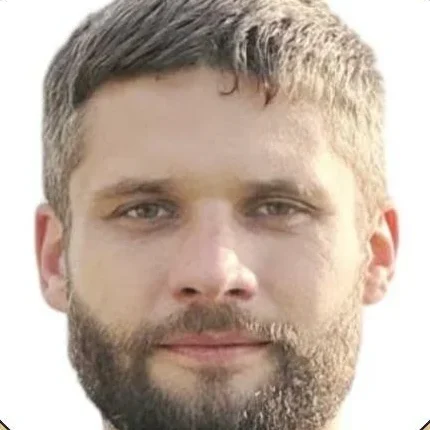
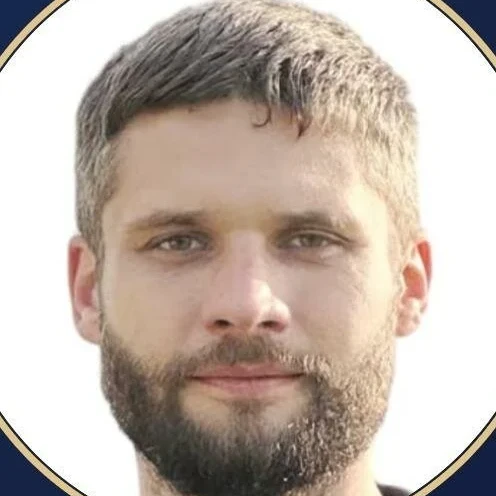
Landing: larger portrait, single Onest family, remove repeated facts and duplicate blocks, compact steps on mobile
Claude-Session: https://claude.ai/code/session_017KJ3HS6DxycsqL4sScxPHw

diff --git a/index.html b/index.html
@@ -9,7 +9,7 @@
 <meta name="theme-color" content="#0d3534">
 <link rel="preload" as="image" href="v2/img/hero.webp">
 <link rel="preconnect" href="https://fonts.googleapis.com">
-<link rel="stylesheet" href="https://fonts.googleapis.com/css2?family=Unbounded:wght@400;500;600&family=Onest:wght@400;500;600;700&display=swap">
+<link rel="stylesheet" href="https://fonts.googleapis.com/css2?family=Onest:wght@400;500;600;700&display=swap">
 <style>
 /* Layout: широкое фото-открытие, дальше — один столбец «разговора» с покупателем, цены — таблица линий от воды к степи */
 :root{
@@ -22,7 +22,7 @@
   --line:#dcd9cf;
   --card:#ffffff;
   --todo:#b4541f;
-  --display:"Unbounded","Arial Black",system-ui,sans-serif;
+  --display:"Onest",system-ui,-apple-system,"Segoe UI",sans-serif;
   --body:"Onest",system-ui,-apple-system,"Segoe UI",sans-serif;
   --gut-l:max(16px, env(safe-area-inset-left,0px));
   --gut-r:max(16px, env(safe-area-inset-right,0px));
@@ -34,9 +34,9 @@
 *{box-sizing:border-box}
 body{background:var(--chalk);color:var(--ink);font:400 17px/1.6 var(--body);-webkit-font-smoothing:antialiased}
 .wrap{max-width:1120px;margin:0 auto;padding-left:var(--gut-l);padding-right:var(--gut-r)}
-h1,h2,h3{font-family:var(--display);font-weight:500;letter-spacing:-.01em;line-height:1.15;text-wrap:balance;margin:0}
+h1,h2,h3{font-family:var(--display);font-weight:700;letter-spacing:-.02em;line-height:1.15;text-wrap:balance;margin:0}
 h2{font-size:clamp(26px,4vw,40px)}
-h3{font-size:19px;font-weight:500}
+h3{font-size:19px;font-weight:600;letter-spacing:-.01em}
 p{margin:0}
 a{color:inherit}
 .label{font:600 12px/1.2 var(--body);letter-spacing:.14em;text-transform:uppercase;color:var(--straw)}
@@ -58,7 +58,7 @@ section{padding-block:clamp(56px,9vw,104px)}
 .top{position:sticky;top:env(safe-area-inset-top,0px);z-index:20;background:color-mix(in srgb,var(--chalk) 92%,transparent);backdrop-filter:blur(10px);border-bottom:1px solid var(--line)}
 body::before{content:"";position:fixed;inset:0 0 auto;height:env(safe-area-inset-top,0px);z-index:30;background:var(--chalk)}
 .top .wrap{display:flex;align-items:center;justify-content:space-between;gap:16px;min-height:62px}
-.brand{font:500 15px var(--display);text-decoration:none}
+.brand{font:700 16px var(--display);text-decoration:none}
 .brand small{display:block;font:500 11px var(--body);letter-spacing:.12em;text-transform:uppercase;color:var(--muted)}
 .top-phone{font-weight:600;text-decoration:none;white-space:nowrap}
 
@@ -68,14 +68,14 @@ body::before{content:"";position:fixed;inset:0 0 auto;height:env(safe-area-inset
 .hero::after{content:"";position:absolute;inset:0;background:linear-gradient(180deg,rgba(8,30,29,0) 0%,rgba(8,30,29,.25) 40%,rgba(8,30,29,.88) 100%)}
 .hero .wrap{position:relative;z-index:1;padding-block:clamp(120px,22vw,220px) clamp(36px,6vw,64px);display:grid;gap:22px}
 .hero h1,.hero .lead{text-shadow:0 1px 18px rgba(0,0,0,.35)}
-.hero h1{font-size:clamp(32px,6.2vw,68px);max-width:15ch}
+.hero h1{font-size:clamp(36px,6.4vw,72px);max-width:14ch;line-height:1.05}
 .hero .lead{color:#e3e6df;max-width:52ch}
 .hero .label{color:#e7c873}
 .hero-price{display:flex;flex-wrap:wrap;gap:8px 28px;font-size:15px;color:#d8ddd6;border-top:1px solid rgba(255,255,255,.22);padding-top:18px;margin-top:6px}
-.hero-price b{font:500 22px var(--display);color:#fff;display:block}
+.hero-price b{font:700 24px var(--display);color:#fff;display:block}
 
 /* почему восток */
-.why-grid{display:grid;grid-template-columns:repeat(4,minmax(0,1fr));gap:28px;margin-top:40px}
+.why-grid{display:grid;grid-template-columns:repeat(3,minmax(0,1fr));gap:28px;margin-top:40px}
 .why-grid div{display:grid;gap:8px;align-content:start;border-top:2px solid var(--sea);padding-top:16px}
 .why-grid p{color:var(--muted);font-size:15.5px}
 
@@ -83,18 +83,18 @@ body::before{content:"";position:fixed;inset:0 0 auto;height:env(safe-area-inset
 .prices{background:var(--card)}
 .lines{margin-top:36px;border-top:1px solid var(--line)}
 .line{display:grid;grid-template-columns:110px minmax(0,1fr) auto;gap:20px 28px;align-items:center;padding-block:26px;border-bottom:1px solid var(--line)}
-.line-no{font:500 44px/1 var(--display);color:var(--sea)}
+.line-no{font:700 48px/1 var(--display);color:var(--sea)}
 .line-no small{display:block;font:600 11px var(--body);letter-spacing:.12em;text-transform:uppercase;color:var(--muted);margin-top:8px}
 .facts{display:flex;flex-wrap:wrap;gap:6px 22px;color:var(--muted);font-size:15px}
 .facts span{display:inline-flex;gap:6px;align-items:baseline}
-.line-price{font:500 clamp(22px,3vw,30px) var(--display);font-variant-numeric:tabular-nums;white-space:nowrap;text-align:right}
+.line-price{font:700 clamp(24px,3vw,32px) var(--display);font-variant-numeric:tabular-nums;white-space:nowrap;text-align:right}
 .line-price a{display:block;font:600 14px var(--body);color:var(--sea);margin-top:6px;text-underline-offset:4px}
 .under-note{margin-top:20px;font-size:14px;color:var(--muted)}
 
 /* Алексей */
 .me{background:var(--sea-deep);color:#eef0ea}
-.me .wrap{display:grid;grid-template-columns:240px minmax(0,1fr);gap:clamp(28px,5vw,64px);align-items:center}
-.me img{width:100%;max-width:240px;aspect-ratio:1;object-fit:cover;border-radius:50%;border:3px solid var(--straw)}
+.me .wrap{display:grid;grid-template-columns:340px minmax(0,1fr);gap:clamp(28px,5vw,64px);align-items:center}
+.me img{width:100%;max-width:340px;aspect-ratio:1;object-fit:cover;border-radius:50%;border:3px solid var(--straw)}
 .me .lead{color:#cfd6d0}
 .me ul{margin:0;padding:0;list-style:none;display:grid;gap:8px;color:#dfe4de}
 .me li{padding-left:22px;position:relative}
@@ -104,7 +104,7 @@ body::before{content:"";position:fixed;inset:0 0 auto;height:env(safe-area-inset
 /* дистанционная покупка */
 .steps{display:grid;grid-template-columns:repeat(4,minmax(0,1fr));gap:20px;margin-top:40px;counter-reset:s}
 .step{background:var(--card);border:1px solid var(--line);border-radius:14px;padding:22px;display:grid;gap:8px;align-content:start}
-.step::before{counter-increment:s;content:counter(s);font:500 15px var(--display);color:var(--sea);width:34px;height:34px;border-radius:50%;border:1.5px solid var(--sea);display:grid;place-items:center}
+.step::before{counter-increment:s;content:counter(s);font:700 15px var(--display);color:var(--sea);width:34px;height:34px;border-radius:50%;border:1.5px solid var(--sea);display:grid;place-items:center}
 .step p{color:var(--muted);font-size:15px}
 
 /* место */
@@ -122,7 +122,7 @@ body::before{content:"";position:fixed;inset:0 0 auto;height:env(safe-area-inset
 /* другие варианты */
 .alt-grid{display:grid;grid-template-columns:repeat(3,minmax(0,1fr));gap:20px;margin-top:36px}
 .alt{background:var(--card);border:1px solid var(--line);border-radius:14px;padding:24px;display:grid;gap:10px;align-content:start}
-.alt .from{font:500 22px var(--display);color:var(--sea)}
+.alt .from{font:700 24px var(--display);color:var(--sea)}
 .alt p{color:var(--muted);font-size:15.5px}
 
 /* вопросы */
@@ -130,7 +130,7 @@ body::before{content:"";position:fixed;inset:0 0 auto;height:env(safe-area-inset
 details{border-bottom:1px solid var(--line)}
 summary{cursor:pointer;list-style:none;padding:20px 40px 20px 0;font:500 18px var(--body);position:relative}
 summary::-webkit-details-marker{display:none}
-summary::after{content:"+";position:absolute;right:4px;top:14px;font:400 28px var(--display);color:var(--sea)}
+summary::after{content:"+";position:absolute;right:4px;top:14px;font:400 30px var(--display);color:var(--sea)}
 details[open] summary::after{content:"−"}
 details p{padding:0 0 20px;color:var(--muted);max-width:65ch}
 
@@ -139,7 +139,7 @@ details p{padding:0 0 20px;color:var(--muted);max-width:65ch}
 .final .wrap{display:grid;gap:22px}
 .final h2{max-width:20ch}
 .final .lead{color:#dcebe8}
-.final .phone-big{font:500 clamp(24px,4vw,34px) var(--display);user-select:all}
+.final .phone-big{font:700 clamp(26px,4vw,36px) var(--display);user-select:all}
 .final .form-link{color:#fff;font-weight:600;text-underline-offset:4px}
 
 footer{background:var(--sea-deep);color:#b9c4bf;font-size:13px;padding-block:28px calc(28px + 76px)}
@@ -152,12 +152,15 @@ footer .wrap{display:flex;flex-wrap:wrap;justify-content:space-between;gap:12px}
   .top-phone{font-size:14px}
   .why-grid,.steps,.alt-grid{grid-template-columns:1fr}
   .why-grid{gap:22px}
+  .steps{gap:0;border-top:1px solid var(--line)}
+  .step{grid-template-columns:34px minmax(0,1fr);column-gap:14px;row-gap:2px;background:none;border:0;border-bottom:1px solid var(--line);border-radius:0;padding:18px 0}
+  .step::before{grid-row:1/3}
   .line{grid-template-columns:64px minmax(0,1fr);padding-block:22px}
   .line-no{font-size:34px}
   .line-price{grid-column:1/-1;text-align:left;display:flex;justify-content:space-between;align-items:baseline;gap:12px}
   .line-price a{margin:0}
   .me .wrap{grid-template-columns:1fr}
-  .me img{max-width:150px}
+  .me img{max-width:260px;justify-self:center}
   .place-grid{grid-template-columns:1fr}
   .place-side{grid-template-rows:none;grid-template-columns:1fr 1fr}
   .place-side figure{aspect-ratio:1}
@@ -210,7 +213,6 @@ img{max-width:100%}
         <div><h3>Два моря</h3><p>Керченский полуостров омывают Азовское и Чёрное моря.</p></div>
         <div><h3>Только собственность</h3><p>Продаём участки в собственность. Без долей и аренды.</p></div>
         <div><h3>Свет и вода</h3><p>Поможем с подключением коммуникаций на выбранном участке.</p></div>
-        <div><h3>Место растёт</h3><p>Рядом наша группа компаний развивает туристический комплекс «Азгард».</p></div>
       </div>
     </div>
   </section>
@@ -227,7 +229,6 @@ img{max-width:100%}
           <div class="line-no">1<small>линия</small></div>
           <div class="stack" style="gap:8px">
             <h3>Ближе всего к берегу</h3>
-            <div class="facts"><span>4–6 соток</span><span>собственность</span><span>рассрочка до 6 месяцев</span></div>
           </div>
           <div class="line-price">2 000 000 ₽<a href="https://max.ru/u/f9LHodD0cOLz-leCnvMTNQNCGHl_K2LRundalWSaDo_sZQo77Q3Mp65kQ8g" target="_blank" rel="noopener">Спросить о наличии</a></div>
         </div>
@@ -235,7 +236,6 @@ img{max-width:100%}
           <div class="line-no">2<small>линия</small></div>
           <div class="stack" style="gap:8px">
             <h3>Вторая линия от моря</h3>
-            <div class="facts"><span>4–6 соток</span><span>собственность</span><span>рассрочка до 6 месяцев</span></div>
           </div>
           <div class="line-price">1 500 000 ₽<a href="https://max.ru/u/f9LHodD0cOLz-leCnvMTNQNCGHl_K2LRundalWSaDo_sZQo77Q3Mp65kQ8g" target="_blank" rel="noopener">Спросить о наличии</a></div>
         </div>
@@ -243,12 +243,11 @@ img{max-width:100%}
           <div class="line-no">3<small>линия</small></div>
           <div class="stack" style="gap:8px">
             <h3>Самый доступный вариант у моря</h3>
-            <div class="facts"><span>4–6 соток</span><span>собственность</span><span>рассрочка до 6 месяцев</span></div>
           </div>
           <div class="line-price">1 200 000 ₽<a href="https://max.ru/u/f9LHodD0cOLz-leCnvMTNQNCGHl_K2LRundalWSaDo_sZQo77Q3Mp65kQ8g" target="_blank" rel="noopener">Спросить о наличии</a></div>
         </div>
       </div>
-      <p class="under-note">Рассрочка до 6 месяцев, первый взнос от 100 000 ₽. <a class="text-link" href="https://yandex.ru/maps/?ll=35.762454%2C45.398889&z=13" target="_blank" rel="noopener">Посмотреть район на карте →</a></p>
+      <p class="under-note">Рассрочка до 6 месяцев, первый взнос от 100 000 ₽. Сделка через Домклик. <a class="text-link" href="https://yandex.ru/maps/?ll=35.762454%2C45.398889&z=13" target="_blank" rel="noopener">Посмотреть район на карте →</a></p>
     </div>
   </section>
 
@@ -333,7 +332,6 @@ img{max-width:100%}
       </div>
       <div class="faq">
         <details><summary>Можно ли посмотреть участок, не приезжая?</summary><p>Да. Я приеду на участок и покажу его по видео: подъезд, границы, соседей, вид на море. Приехать лично можно позже, перед сделкой.</p></details>
-        <details><summary>Как проверить документы?</summary><p>До любых оплат вместе смотрим выписку ЕГРН: собственника, площадь, разрешённое использование и ограничения.</p></details>
         <details><summary>Есть ли свет и вода?</summary><p>Зависит от участка. По каждому варианту расскажу, что уже подведено и как подключить остальное. С подключением помогаем.</p></details>
         <details><summary>Можно ли построить дом?</summary><p>Да, обсудим это при подборе. Можем построить дом на вашем участке.</p></details>
         <details><summary>Есть ли рассрочка?</summary><p>Да, до 6 месяцев, первый взнос от 100 000 ₽. Подробные условия по конкретному участку расскажу в разговоре.</p></details>

diff --git a/v2/index.html b/v2/index.html
@@ -9,7 +9,7 @@
 <meta name="theme-color" content="#0d3534">
 <link rel="preload" as="image" href="img/hero.webp">
 <link rel="preconnect" href="https://fonts.googleapis.com">
-<link rel="stylesheet" href="https://fonts.googleapis.com/css2?family=Unbounded:wght@400;500;600&family=Onest:wght@400;500;600;700&display=swap">
+<link rel="stylesheet" href="https://fonts.googleapis.com/css2?family=Onest:wght@400;500;600;700&display=swap">
 <style>
 /* Layout: широкое фото-открытие, дальше — один столбец «разговора» с покупателем, цены — таблица линий от воды к степи */
 :root{
@@ -22,7 +22,7 @@
   --line:#dcd9cf;
   --card:#ffffff;
   --todo:#b4541f;
-  --display:"Unbounded","Arial Black",system-ui,sans-serif;
+  --display:"Onest",system-ui,-apple-system,"Segoe UI",sans-serif;
   --body:"Onest",system-ui,-apple-system,"Segoe UI",sans-serif;
   --gut-l:max(16px, env(safe-area-inset-left,0px));
   --gut-r:max(16px, env(safe-area-inset-right,0px));
@@ -34,9 +34,9 @@
 *{box-sizing:border-box}
 body{background:var(--chalk);color:var(--ink);font:400 17px/1.6 var(--body);-webkit-font-smoothing:antialiased}
 .wrap{max-width:1120px;margin:0 auto;padding-left:var(--gut-l);padding-right:var(--gut-r)}
-h1,h2,h3{font-family:var(--display);font-weight:500;letter-spacing:-.01em;line-height:1.15;text-wrap:balance;margin:0}
+h1,h2,h3{font-family:var(--display);font-weight:700;letter-spacing:-.02em;line-height:1.15;text-wrap:balance;margin:0}
 h2{font-size:clamp(26px,4vw,40px)}
-h3{font-size:19px;font-weight:500}
+h3{font-size:19px;font-weight:600;letter-spacing:-.01em}
 p{margin:0}
 a{color:inherit}
 .label{font:600 12px/1.2 var(--body);letter-spacing:.14em;text-transform:uppercase;color:var(--straw)}
@@ -58,7 +58,7 @@ section{padding-block:clamp(56px,9vw,104px)}
 .top{position:sticky;top:env(safe-area-inset-top,0px);z-index:20;background:color-mix(in srgb,var(--chalk) 92%,transparent);backdrop-filter:blur(10px);border-bottom:1px solid var(--line)}
 body::before{content:"";position:fixed;inset:0 0 auto;height:env(safe-area-inset-top,0px);z-index:30;background:var(--chalk)}
 .top .wrap{display:flex;align-items:center;justify-content:space-between;gap:16px;min-height:62px}
-.brand{font:500 15px var(--display);text-decoration:none}
+.brand{font:700 16px var(--display);text-decoration:none}
 .brand small{display:block;font:500 11px var(--body);letter-spacing:.12em;text-transform:uppercase;color:var(--muted)}
 .top-phone{font-weight:600;text-decoration:none;white-space:nowrap}
 
@@ -68,14 +68,14 @@ body::before{content:"";position:fixed;inset:0 0 auto;height:env(safe-area-inset
 .hero::after{content:"";position:absolute;inset:0;background:linear-gradient(180deg,rgba(8,30,29,0) 0%,rgba(8,30,29,.25) 40%,rgba(8,30,29,.88) 100%)}
 .hero .wrap{position:relative;z-index:1;padding-block:clamp(120px,22vw,220px) clamp(36px,6vw,64px);display:grid;gap:22px}
 .hero h1,.hero .lead{text-shadow:0 1px 18px rgba(0,0,0,.35)}
-.hero h1{font-size:clamp(32px,6.2vw,68px);max-width:15ch}
+.hero h1{font-size:clamp(36px,6.4vw,72px);max-width:14ch;line-height:1.05}
 .hero .lead{color:#e3e6df;max-width:52ch}
 .hero .label{color:#e7c873}
 .hero-price{display:flex;flex-wrap:wrap;gap:8px 28px;font-size:15px;color:#d8ddd6;border-top:1px solid rgba(255,255,255,.22);padding-top:18px;margin-top:6px}
-.hero-price b{font:500 22px var(--display);color:#fff;display:block}
+.hero-price b{font:700 24px var(--display);color:#fff;display:block}
 
 /* почему восток */
-.why-grid{display:grid;grid-template-columns:repeat(4,minmax(0,1fr));gap:28px;margin-top:40px}
+.why-grid{display:grid;grid-template-columns:repeat(3,minmax(0,1fr));gap:28px;margin-top:40px}
 .why-grid div{display:grid;gap:8px;align-content:start;border-top:2px solid var(--sea);padding-top:16px}
 .why-grid p{color:var(--muted);font-size:15.5px}
 
@@ -83,18 +83,18 @@ body::before{content:"";position:fixed;inset:0 0 auto;height:env(safe-area-inset
 .prices{background:var(--card)}
 .lines{margin-top:36px;border-top:1px solid var(--line)}
 .line{display:grid;grid-template-columns:110px minmax(0,1fr) auto;gap:20px 28px;align-items:center;padding-block:26px;border-bottom:1px solid var(--line)}
-.line-no{font:500 44px/1 var(--display);color:var(--sea)}
+.line-no{font:700 48px/1 var(--display);color:var(--sea)}
 .line-no small{display:block;font:600 11px var(--body);letter-spacing:.12em;text-transform:uppercase;color:var(--muted);margin-top:8px}
 .facts{display:flex;flex-wrap:wrap;gap:6px 22px;color:var(--muted);font-size:15px}
 .facts span{display:inline-flex;gap:6px;align-items:baseline}
-.line-price{font:500 clamp(22px,3vw,30px) var(--display);font-variant-numeric:tabular-nums;white-space:nowrap;text-align:right}
+.line-price{font:700 clamp(24px,3vw,32px) var(--display);font-variant-numeric:tabular-nums;white-space:nowrap;text-align:right}
 .line-price a{display:block;font:600 14px var(--body);color:var(--sea);margin-top:6px;text-underline-offset:4px}
 .under-note{margin-top:20px;font-size:14px;color:var(--muted)}
 
 /* Алексей */
 .me{background:var(--sea-deep);color:#eef0ea}
-.me .wrap{display:grid;grid-template-columns:240px minmax(0,1fr);gap:clamp(28px,5vw,64px);align-items:center}
-.me img{width:100%;max-width:240px;aspect-ratio:1;object-fit:cover;border-radius:50%;border:3px solid var(--straw)}
+.me .wrap{display:grid;grid-template-columns:340px minmax(0,1fr);gap:clamp(28px,5vw,64px);align-items:center}
+.me img{width:100%;max-width:340px;aspect-ratio:1;object-fit:cover;border-radius:50%;border:3px solid var(--straw)}
 .me .lead{color:#cfd6d0}
 .me ul{margin:0;padding:0;list-style:none;display:grid;gap:8px;color:#dfe4de}
 .me li{padding-left:22px;position:relative}
@@ -104,7 +104,7 @@ body::before{content:"";position:fixed;inset:0 0 auto;height:env(safe-area-inset
 /* дистанционная покупка */
 .steps{display:grid;grid-template-columns:repeat(4,minmax(0,1fr));gap:20px;margin-top:40px;counter-reset:s}
 .step{background:var(--card);border:1px solid var(--line);border-radius:14px;padding:22px;display:grid;gap:8px;align-content:start}
-.step::before{counter-increment:s;content:counter(s);font:500 15px var(--display);color:var(--sea);width:34px;height:34px;border-radius:50%;border:1.5px solid var(--sea);display:grid;place-items:center}
+.step::before{counter-increment:s;content:counter(s);font:700 15px var(--display);color:var(--sea);width:34px;height:34px;border-radius:50%;border:1.5px solid var(--sea);display:grid;place-items:center}
 .step p{color:var(--muted);font-size:15px}
 
 /* место */
@@ -122,7 +122,7 @@ body::before{content:"";position:fixed;inset:0 0 auto;height:env(safe-area-inset
 /* другие варианты */
 .alt-grid{display:grid;grid-template-columns:repeat(3,minmax(0,1fr));gap:20px;margin-top:36px}
 .alt{background:var(--card);border:1px solid var(--line);border-radius:14px;padding:24px;display:grid;gap:10px;align-content:start}
-.alt .from{font:500 22px var(--display);color:var(--sea)}
+.alt .from{font:700 24px var(--display);color:var(--sea)}
 .alt p{color:var(--muted);font-size:15.5px}
 
 /* вопросы */
@@ -130,7 +130,7 @@ body::before{content:"";position:fixed;inset:0 0 auto;height:env(safe-area-inset
 details{border-bottom:1px solid var(--line)}
 summary{cursor:pointer;list-style:none;padding:20px 40px 20px 0;font:500 18px var(--body);position:relative}
 summary::-webkit-details-marker{display:none}
-summary::after{content:"+";position:absolute;right:4px;top:14px;font:400 28px var(--display);color:var(--sea)}
+summary::after{content:"+";position:absolute;right:4px;top:14px;font:400 30px var(--display);color:var(--sea)}
 details[open] summary::after{content:"−"}
 details p{padding:0 0 20px;color:var(--muted);max-width:65ch}
 
@@ -139,7 +139,7 @@ details p{padding:0 0 20px;color:var(--muted);max-width:65ch}
 .final .wrap{display:grid;gap:22px}
 .final h2{max-width:20ch}
 .final .lead{color:#dcebe8}
-.final .phone-big{font:500 clamp(24px,4vw,34px) var(--display);user-select:all}
+.final .phone-big{font:700 clamp(26px,4vw,36px) var(--display);user-select:all}
 .final .form-link{color:#fff;font-weight:600;text-underline-offset:4px}
 
 footer{background:var(--sea-deep);color:#b9c4bf;font-size:13px;padding-block:28px calc(28px + 76px)}
@@ -152,12 +152,15 @@ footer .wrap{display:flex;flex-wrap:wrap;justify-content:space-between;gap:12px}
   .top-phone{font-size:14px}
   .why-grid,.steps,.alt-grid{grid-template-columns:1fr}
   .why-grid{gap:22px}
+  .steps{gap:0;border-top:1px solid var(--line)}
+  .step{grid-template-columns:34px minmax(0,1fr);column-gap:14px;row-gap:2px;background:none;border:0;border-bottom:1px solid var(--line);border-radius:0;padding:18px 0}
+  .step::before{grid-row:1/3}
   .line{grid-template-columns:64px minmax(0,1fr);padding-block:22px}
   .line-no{font-size:34px}
   .line-price{grid-column:1/-1;text-align:left;display:flex;justify-content:space-between;align-items:baseline;gap:12px}
   .line-price a{margin:0}
   .me .wrap{grid-template-columns:1fr}
-  .me img{max-width:150px}
+  .me img{max-width:260px;justify-self:center}
   .place-grid{grid-template-columns:1fr}
   .place-side{grid-template-rows:none;grid-template-columns:1fr 1fr}
   .place-side figure{aspect-ratio:1}
@@ -210,7 +213,6 @@ img{max-width:100%}
         <div><h3>Два моря</h3><p>Керченский полуостров омывают Азовское и Чёрное моря.</p></div>
         <div><h3>Только собственность</h3><p>Продаём участки в собственность. Без долей и аренды.</p></div>
         <div><h3>Свет и вода</h3><p>Поможем с подключением коммуникаций на выбранном участке.</p></div>
-        <div><h3>Место растёт</h3><p>Рядом наша группа компаний развивает туристический комплекс «Азгард».</p></div>
       </div>
     </div>
   </section>
@@ -227,7 +229,6 @@ img{max-width:100%}
           <div class="line-no">1<small>линия</small></div>
           <div class="stack" style="gap:8px">
             <h3>Ближе всего к берегу</h3>
-            <div class="facts"><span>4–6 соток</span><span>собственность</span><span>рассрочка до 6 месяцев</span></div>
           </div>
           <div class="line-price">2 000 000 ₽<a href="https://max.ru/u/f9LHodD0cOLz-leCnvMTNQNCGHl_K2LRundalWSaDo_sZQo77Q3Mp65kQ8g" target="_blank" rel="noopener">Спросить о наличии</a></div>
         </div>
@@ -235,7 +236,6 @@ img{max-width:100%}
           <div class="line-no">2<small>линия</small></div>
           <div class="stack" style="gap:8px">
             <h3>Вторая линия от моря</h3>
-            <div class="facts"><span>4–6 соток</span><span>собственность</span><span>рассрочка до 6 месяцев</span></div>
           </div>
           <div class="line-price">1 500 000 ₽<a href="https://max.ru/u/f9LHodD0cOLz-leCnvMTNQNCGHl_K2LRundalWSaDo_sZQo77Q3Mp65kQ8g" target="_blank" rel="noopener">Спросить о наличии</a></div>
         </div>
@@ -243,12 +243,11 @@ img{max-width:100%}
           <div class="line-no">3<small>линия</small></div>
           <div class="stack" style="gap:8px">
             <h3>Самый доступный вариант у моря</h3>
-            <div class="facts"><span>4–6 соток</span><span>собственность</span><span>рассрочка до 6 месяцев</span></div>
           </div>
           <div class="line-price">1 200 000 ₽<a href="https://max.ru/u/f9LHodD0cOLz-leCnvMTNQNCGHl_K2LRundalWSaDo_sZQo77Q3Mp65kQ8g" target="_blank" rel="noopener">Спросить о наличии</a></div>
         </div>
       </div>
-      <p class="under-note">Рассрочка до 6 месяцев, первый взнос от 100 000 ₽. <a class="text-link" href="https://yandex.ru/maps/?ll=35.762454%2C45.398889&z=13" target="_blank" rel="noopener">Посмотреть район на карте →</a></p>
+      <p class="under-note">Рассрочка до 6 месяцев, первый взнос от 100 000 ₽. Сделка через Домклик. <a class="text-link" href="https://yandex.ru/maps/?ll=35.762454%2C45.398889&z=13" target="_blank" rel="noopener">Посмотреть район на карте →</a></p>
     </div>
   </section>
 
@@ -333,7 +332,6 @@ img{max-width:100%}
       </div>
       <div class="faq">
         <details><summary>Можно ли посмотреть участок, не приезжая?</summary><p>Да. Я приеду на участок и покажу его по видео: подъезд, границы, соседей, вид на море. Приехать лично можно позже, перед сделкой.</p></details>
-        <details><summary>Как проверить документы?</summary><p>До любых оплат вместе смотрим выписку ЕГРН: собственника, площадь, разрешённое использование и ограничения.</p></details>
         <details><summary>Есть ли свет и вода?</summary><p>Зависит от участка. По каждому варианту расскажу, что уже подведено и как подключить остальное. С подключением помогаем.</p></details>
         <details><summary>Можно ли построить дом?</summary><p>Да, обсудим это при подборе. Можем построить дом на вашем участке.</p></details>
         <details><summary>Есть ли рассрочка?</summary><p>Да, до 6 месяцев, первый взнос от 100 000 ₽. Подробные условия по конкретному участку расскажу в разговоре.</p></details>
